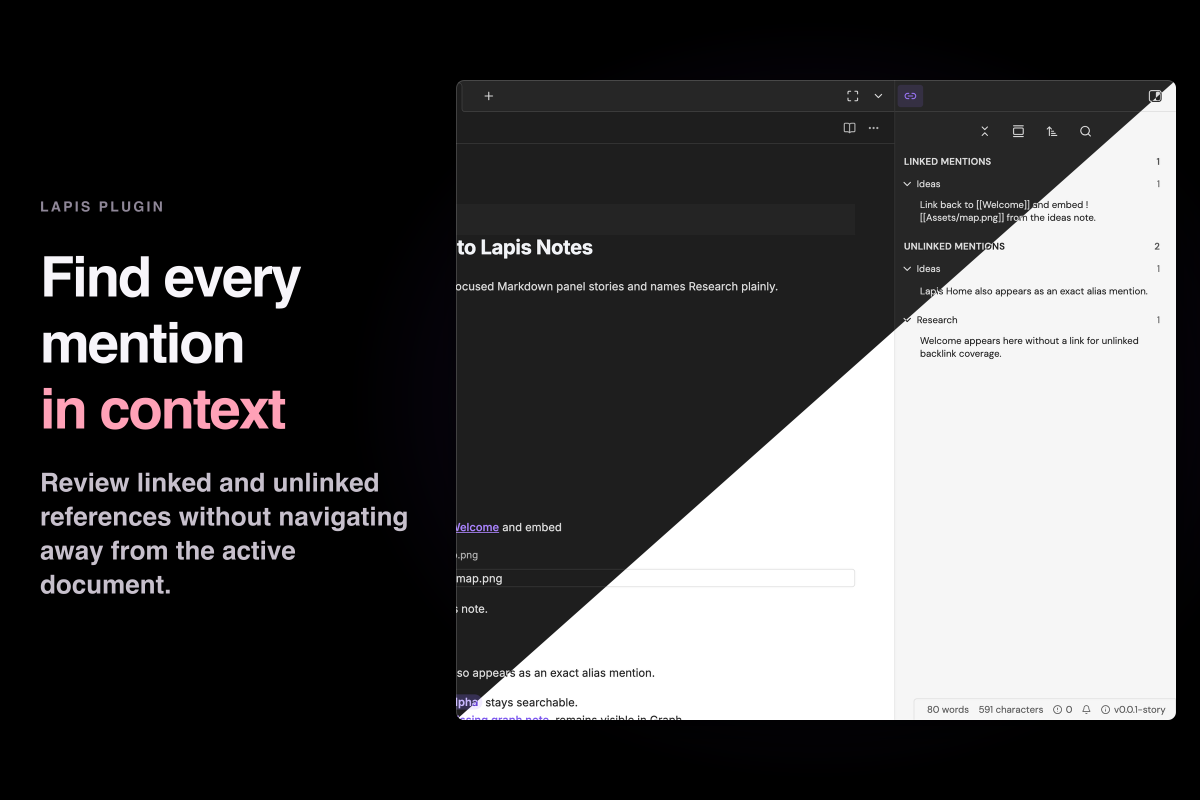
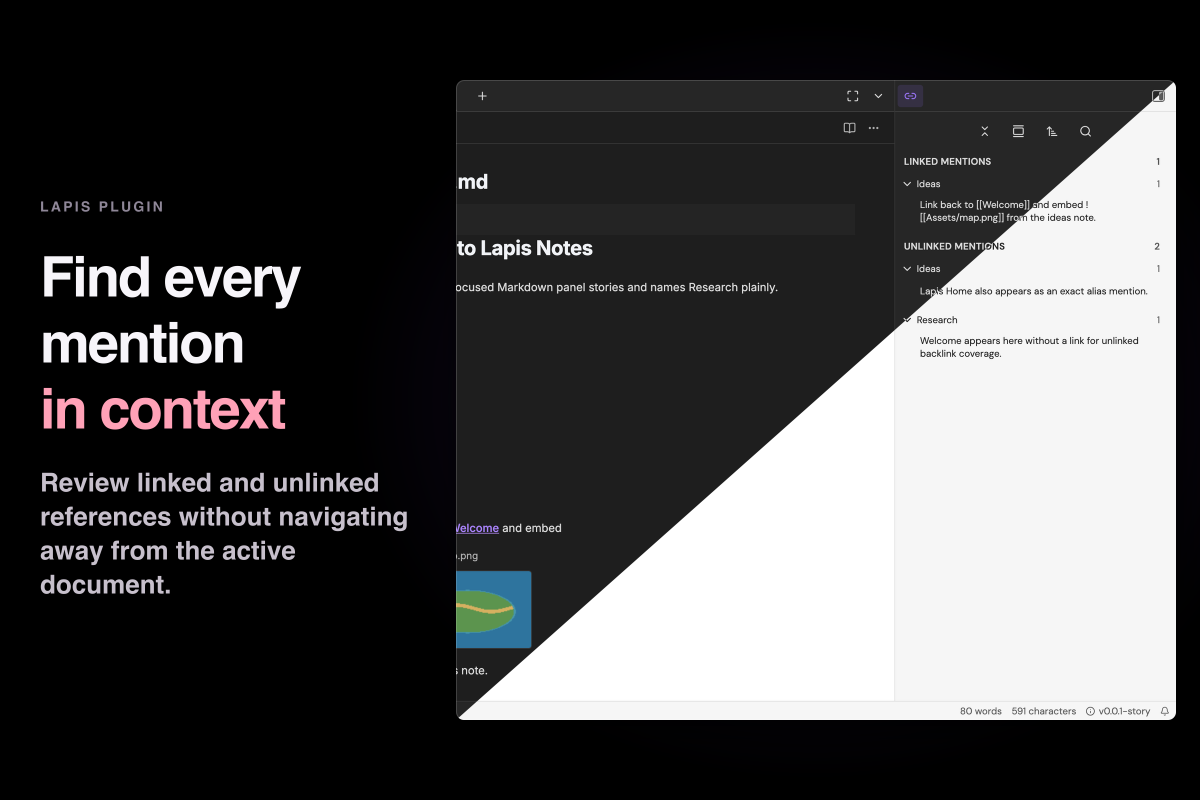
Wait for Markdown content images before registry capture
Require decoded content images in the Reading scene and regenerate all six declared media items in both themes. Preserve production fixtures, enabled accessibility checks and visual-pending status.

Verified all five affected stories, 154 package tests, package checks/build/publint, deterministic media and specifications. Record the reproduced inherited audit findings and the user-approved migration scope.

diff --git a/stories/plugins/markdown/RegistryScreenshots.stories.ts b/stories/plugins/markdown/RegistryScreenshots.stories.ts
@@ -1,4 +1,5 @@
 import type { Meta, StoryObj } from "@storybook/svelte-vite";
+import { expect, waitFor } from "storybook/test";
 import {
   BacklinksViewType,
   FilePropertiesViewType,
@@ -17,7 +18,7 @@ import {
 
 const registrySource = pluginWorkspaceSource(
   "@lapis-notes/markdown",
-  "MarkdownPlugin"
+  "MarkdownPlugin",
 );
 
 const meta = {
@@ -44,7 +45,7 @@ function editorStory(
   kind: "explorer" | "outline" | "file-properties",
   layout: "left-sidebar" | "right-sidebar",
   description: string,
-  sidebarSelector?: string
+  sidebarSelector?: string,
 ): Story {
   return {
     parameters: registryStoryParameters(registrySource, description),
@@ -58,8 +59,26 @@ function editorStory(
         canvasElement,
         mode === "preview"
           ? '[data-ui-component="markdown-mira-preview"]'
-          : ".markdown-view__editor"
+          : ".markdown-view__editor",
       );
+      if (mode === "preview") {
+        await waitFor(
+          async () => {
+            const images = [
+              ...canvasElement.querySelectorAll<HTMLImageElement>(
+                "[data-ui-component='markdown-mira-preview'] img[alt]:not([aria-hidden='true'])",
+              ),
+            ];
+            expect(images.length).toBeGreaterThan(0);
+            for (const image of images) {
+              await image.decode();
+              expect(image.naturalWidth).toBeGreaterThan(0);
+              expect(image.naturalHeight).toBeGreaterThan(0);
+            }
+          },
+          { timeout: 10000 },
+        );
+      }
       if (sidebarSelector) {
         await waitForRegistrySurface(canvasElement, sidebarSelector);
       }
@@ -70,7 +89,7 @@ function editorStory(
 function sidebarStory(
   kind: "outline" | "backlinks",
   selector: string,
-  description: string
+  description: string,
 ): Story {
   return {
     parameters: registryStoryParameters(registrySource, description),
@@ -90,31 +109,31 @@ export const LivePreview = editorStory(
   "outline",
   "right-sidebar",
   "Live Preview keeps Markdown editable while the Outline tracks the active note.",
-  '[data-testid="outline-panel"]'
+  '[data-testid="outline-panel"]',
 );
 export const Source = editorStory(
   "source",
   "file-properties",
   "right-sidebar",
   "Source mode exposes Markdown text beside the active file properties.",
-  '[data-testid="file-properties-panel"]'
+  '[data-testid="file-properties-panel"]',
 );
 export const Reading = editorStory(
   "preview",
   "explorer",
   "left-sidebar",
-  "Reading mode renders the active note beside Explorer."
+  "Reading mode renders the active note beside Explorer.",
 );
 export const BacklinksSidebar = sidebarStory(
   "backlinks",
   '[data-testid="backlinks-panel"]',
-  "Backlinks lists notes that reference the active Markdown file."
+  "Backlinks lists notes that reference the active Markdown file.",
 );
 
 export const Overview: Story = {
   parameters: registryStoryParameters(
     registrySource,
-    "The overview combines Live Preview, Backlinks, and File Properties in one workspace."
+    "The overview combines Live Preview, Backlinks, and File Properties in one workspace.",
   ),
   render: (() => ({
     Component: PanelDemo,
@@ -133,11 +152,11 @@ export const Overview: Story = {
     await app.workspace.revealLeaf(backlinks);
     await waitForRegistrySurface(
       canvasElement,
-      '[data-testid="backlinks-panel"]'
+      '[data-testid="backlinks-panel"]',
     );
     await waitForRegistrySurface(
       canvasElement,
-      '[data-testid="file-properties-panel"]'
+      '[data-testid="file-properties-panel"]',
     );
     await waitForRegistrySurface(canvasElement, ".markdown-view__editor");
     if (app.workspace.getLeavesOfType(FilePropertiesViewType).length !== 1) {

diff --git a/spec/src/verification.md b/spec/src/verification.md
@@ -26,7 +26,7 @@ and records repository-level extraction and release gates.
 | LP-SPEC-028   | distribution                          | Implemented | Release-output filesystem tests prove full preparation deletes stale payload directories while focused single-plugin preparation preserves other generated candidates; candidate identity includes source and artifact hashes.                                                                                                                                                                                                                                                                                                                                                                                                                                                                                                                                                                                                                                                                                               |
 | LP-SPEC-029   | distribution                          | Implemented | Documentation-sync regression coverage proves a write refresh leaves the Changesets-owned package changelog byte-for-byte unchanged.                                                                                                                                                                                                                                                                                                                                                                                                                                                                                                                                                                                                                                                                                                                                                                                         |
 | LP-SPEC-030   | distribution                          | Implemented | Package metadata audit validates allowlisted icons, accents, safe optional logo paths, formats, dimensions, and SVG safety; registry contract tests cover hash-addressed mirroring and icon fallback.                                                                                                                                                                                                                                                                                                                                                                                                                                                                                                                                                                                                                                                                                                                        |
-| LP-SPEC-031   | distribution                          | Implemented | Fixed `Registry Screenshots` stories feed deterministic card composition with bounded palette, copy, and crop metadata while retaining `registry-media` and `visual-pending` governance.                                                                                                                                                                                                                                                                                                                                                                                                                                                                                                                                                                                                                                                                                                                                     |
+| LP-SPEC-031   | distribution                          | Implemented | Fixed `Registry Screenshots` stories feed deterministic card composition with bounded palette, copy, and crop metadata while retaining `registry-media` and `visual-pending` governance. Markdown Reading now requires decoded content images; source and audit evidence: `spec/records/2026-11-13-markdown-website-media.md`.                                                                                                                                                                                                                                                                                                                                                                                                                                                                                                                                                                                                                                                                                                                                     |
 | LP-SPEC-032   | distribution                          | Implemented | Package-boundary and release-contract checks require explicit first-party platform intent and verify that generated compatibility uses only `web` and `desktop`.                                                                                                                                                                                                                                                                                                                                                                                                                                                                                                                                                                                                                                                                                                                                                             |
 | LP-SPEC-033   | distribution                          | Implemented | All thirteen registry metadata files point to dedicated package-owned Overview Markdown; the metadata audit rejects alternate paths and package installation commands.                                                                                                                                                                                                                                                                                                                                                                                                                                                                                                                                                                                                                                                                                                                                                       |
 | LP-SPEC-034   | distribution                          | Implemented | Classifier and owned-console regressions cover formatted warnings, diagnostic URLs, Error objects, unrelated logging, caught teardown retention and safe restoration; shared Vitest afterEach/afterAll hooks fail retained diagnostics. Pull-request CI runs four parallel shards. Each quarter is two sequential browser eighths with a 2 GiB shared-memory mount.                                                                                                                                                                                                                                                                                                                                                                                                                                                                                                                                                                                                                                                                                      |

diff --git a/spec/records/2026-11-13-markdown-website-media.md b/spec/records/2026-11-13-markdown-website-media.md
@@ -1,0 +1,81 @@
+# Markdown website media readiness
+
+The website's reviewed Reading screenshot displayed a broken nested
+`Assets/map.png`. The fixed Reading story now requires a meaningful content
+image to decode with nonzero natural width and height before capture readiness.
+CodeMirror's intentionally source-less, hidden cursor-buffer images do not
+represent document content and are excluded by their accessibility attributes.
+The source fixture's PNG decodes correctly; no production runtime or shared
+fixture implementation changed.
+
+All six declared Markdown media items were regenerated through the existing
+registry capture command: banner, overview and four gallery cards, each with
+preview/full/light/dark outputs. Plain product images retain 1200x800 CSS pixels
+at 2x density. Both themed Reading images were visually inspected and show the
+embedded map. No Visual Delta baseline was created or updated.
+
+## Executed source qualification
+
+- Cold focused Reading: 1 passed, 4 unselected, 0 failed.
+- Complete affected Registry Screenshots family: 5 passed, 0 failed, retaining
+  the real preview annotations, runtime-warning guard and enabled axe checks.
+- Markdown package check: zero Svelte warnings or errors; type lane passed.
+- Markdown unit suite: 25 files / 154 tests passed, zero failures.
+- Markdown build/prepack and publint, including the actual npm pack, passed.
+- Explicit App-ownership audit passed. No App ownership implementation changed.
+- Specification check: validation, mdBook and spec-first all passed.
+- Fresh static Markdown Storybook build passed. The ignored focused config
+  imports the owning repository's main config and default preview unchanged,
+  selecting the one affected family for diagnosis and capture. It is not a
+  second maintained Storybook or a full-repository catalog qualification.
+- `pnpm registry:media:capture -- --plugin markdown --storybook-dir .local/storybook-website-final`
+  generated all 24 declared assets.
+- The matching `pnpm registry:media:check` passed for all six deterministic
+  items in both themes.
+- Latest registry `@lapismd/spec-validator` remains 0.2.0. Doctor passed nine
+  checks with two warnings because QMD is absent from PATH; `spec:search` used
+  its documented rg fallback. The specification gates remain enabled.
+
+Focused browser commands:
+
+```sh
+pnpm exec vitest run --config .local/website-storybook/vitest.config.ts --testNamePattern Reading
+pnpm exec vitest run --config .local/website-storybook/vitest.config.ts
+```
+
+These checks used native Node 24 as explicit source diagnosis, without claiming
+Docker or native Desktop qualification. November 1 broad source runs were
+canceled under memory pressure and have no full-suite result. The normal full
+Storybook path had also failed dependency optimization in parked Sync imports
+before collecting tests. Those attempts do not count as successful catalog
+coverage.
+
+## Existing audit failure
+
+`pnpm audit` fails on the inherited lockfile: nine advisories, of which the two
+existing low exceptions are already ignored. The seven unignored findings are
+six moderate and one low in `hono` and `@hono/node-server`, reached through
+`@lapis-notes/api` -> `@lapismd/ai-host` -> `@modelcontextprotocol/sdk`.
+
+The unchanged parent's package.json, pnpm-lock.yaml and pnpm-workspace.yaml were
+exported to an isolated directory; their bytes match this change. Its independent
+`pnpm audit --json` reproduces the same six moderate and three total low findings.
+No manifest, lock, vulnerability ignore or audit assertion changed in this slice.
+
+Advisories: GHSA-qv5m-9pm6-hqp3, GHSA-jpvv-r467-5p4w,
+GHSA-4m76-xfj5-7975, GHSA-h7mg-cq63-vhpq, GHSA-3gg2-335m-rxc6,
+GHSA-46wx-v44x-9hh2 and GHSA-4h7h-rv7c-7m2v. Dependency maintenance owns the
+registry refresh; AI Host owns its public dependency contract. No audit finding
+is reported as passing. On November 13 the user explicitly accepted recording
+this existing audit limit and pushing the focused migration change, with the
+audit gate and all existing checks left enabled.
+
+## Diagnostic corrections retained
+
+An initial image query included CodeMirror cursor buffers and failed once on an
+intentionally source-less image. The final semantic selector requires real
+content, without suppressing broken document images. An initial temporary preview
+re-export omitted its default export; the generator rejected identical theme
+captures. The corrected preview imports the actual default, and final cold
+captures and deterministic checks distinguish both themes. No failed or canceled
+attempt qualifies the final media.

diff --git a/spec/src/plugins/markdown/index.md b/spec/src/plugins/markdown/index.md
@@ -55,6 +55,9 @@ Preview beside the right Outline, Source beside right File Properties, Reading,
 and Backlinks; all stay `visual-pending` until separate visual approval.
 Each capture MUST assert its final editor mode and adjacent panel before the
 shared readiness marker permits media generation.
+Reading MUST also wait for at least one meaningful content image to decode with
+nonzero natural dimensions. Decorative CodeMirror cursor buffers are excluded
+by their missing alternative text or hidden accessibility state.
 Reading preserves the complete full-shell capture, while the editor-and-panel
 cards retain their declared right-sidebar crops. Every frame retains the shared
 dark right-edge gutter.
